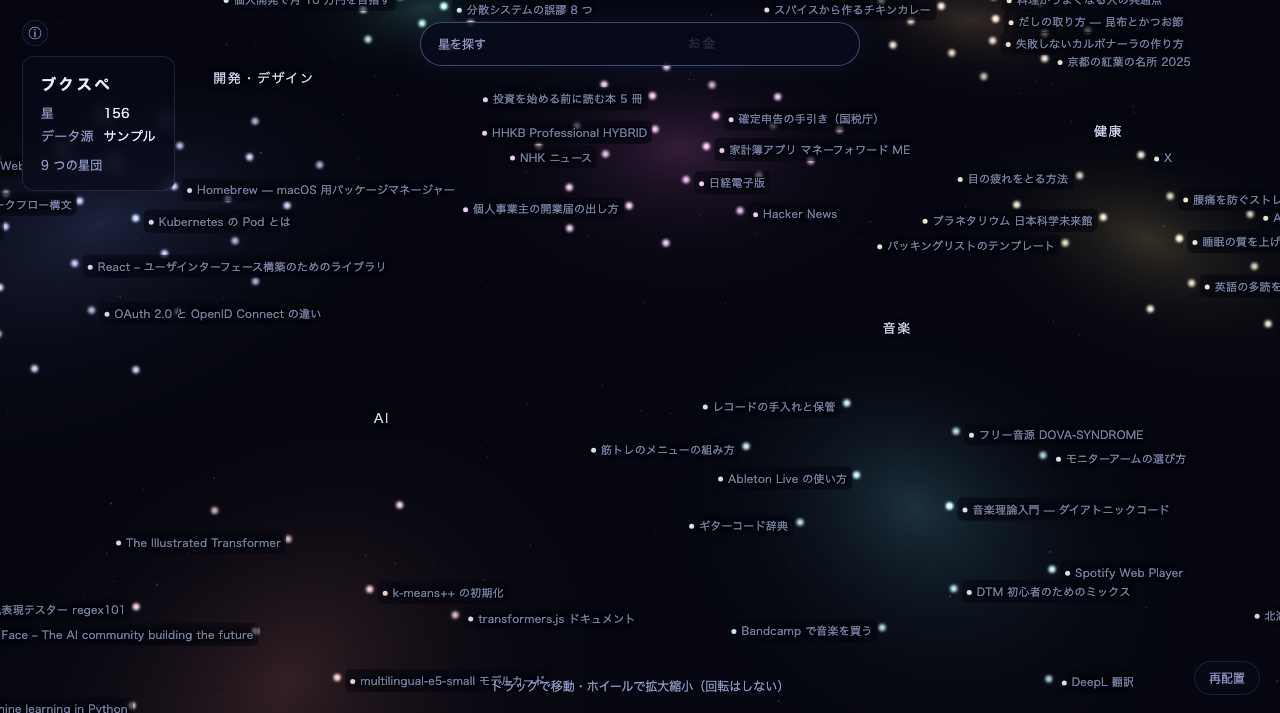
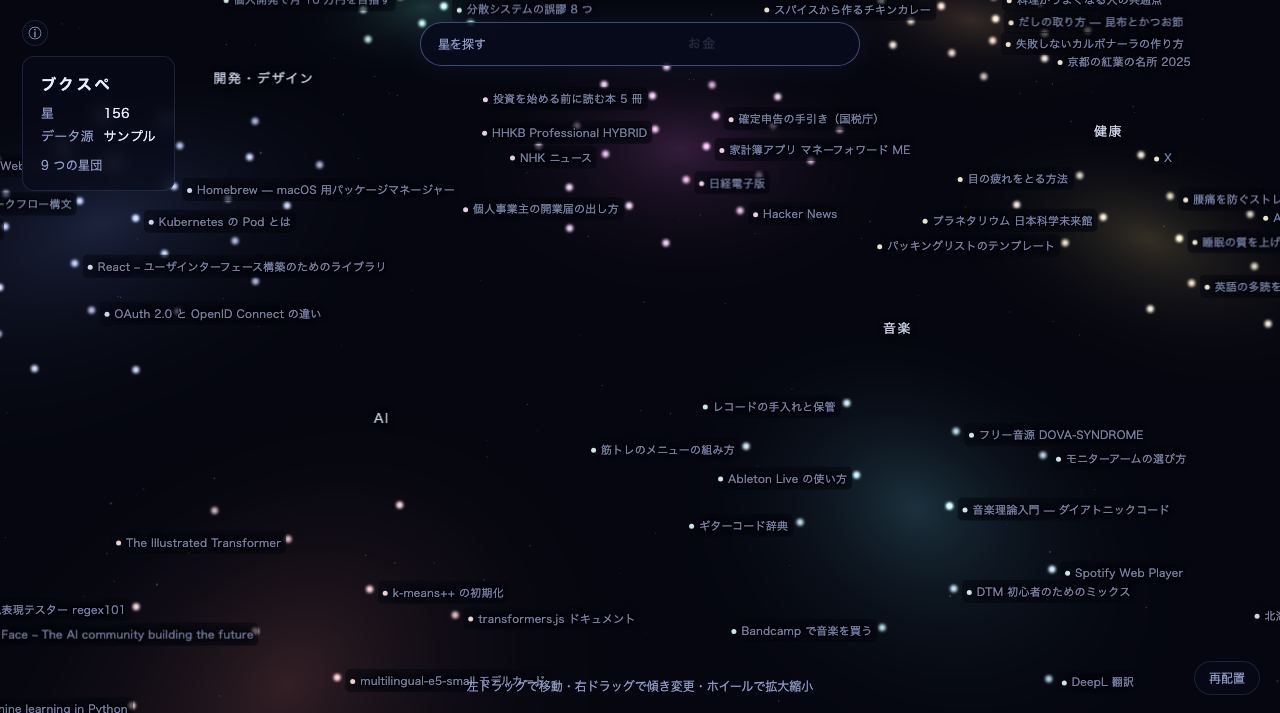
feat(ui): open labels and adjust camera tilt

diff --git a/src/render/scene.ts b/src/render/scene.ts
@@ -8,6 +8,7 @@ import { StarField, clusterColor, createBackdrop, type RenderStar } from "./star
 
 /** 静止時のカメラの傾き（真上から 40 度。SPEC 7 章） */
 const TILT = THREE.MathUtils.degToRad(40);
+const MAX_TILT = THREE.MathUtils.degToRad(65);
 /** 傾き⇄真上の切り替えにかける時間（SPEC 7 章） */
 const TURN_SECONDS = 0.6;
 
@@ -54,6 +55,11 @@ export class SpaceView {
   private screenCircles: ScreenCircle[] = [];
   private tilt = TILT;
   private tiltTarget = TILT;
+  private tiltSpeed = TILT / TURN_SECONDS;
+  private preferredTilt = TILT;
+  private tiltPointer: number | null = null;
+  private tiltPointerY = 0;
+  private tiltCapture: HTMLElement | null = null;
   private searchIds: string[] = [];
   private searchCenter = { x: 0, y: 0 };
   private searchUnit = 1;
@@ -83,6 +89,7 @@ export class SpaceView {
 
   /** 描画できたコマ数。計算中も画面が動いていることの確認に使う。 */
   frames = 0;
+  onStarLabelClick: ((id: string) => void) | null = null;
 
   constructor(private readonly canvas: HTMLCanvasElement, labelContainer: HTMLElement) {
     this.renderer = new THREE.WebGLRenderer({ canvas, antialias: true, alpha: false });
@@ -101,16 +108,50 @@ export class SpaceView {
     this.controls.screenSpacePanning = false;
     this.controls.minDistance = 6;
     this.controls.maxDistance = 2000;
+    for (const surface of [canvas, labelContainer]) {
+      surface.addEventListener("pointerdown", this.onTiltStart, true);
+      surface.addEventListener("pointermove", this.onTiltMove, true);
+      surface.addEventListener("pointerup", this.onTiltEnd, true);
+      surface.addEventListener("pointercancel", this.onTiltEnd, true);
+      surface.addEventListener("contextmenu", (event) => event.preventDefault());
+    }
 
     this.backdrop = createBackdrop();
     this.scene.add(this.backdrop);
     this.scene.add(this.nebulae.object);
     this.scene.add(this.field.object);
+    const glow = new THREE.Mesh(
+      new THREE.PlaneGeometry(2.5, 2.5).rotateX(-Math.PI / 2),
+      new THREE.ShaderMaterial({
+        transparent: true, depthWrite: false, depthTest: false,
+        blending: THREE.AdditiveBlending,
+        vertexShader: `varying vec2 vUv;
+          void main() { vUv = uv; gl_Position = projectionMatrix * modelViewMatrix * vec4(position, 1.0); }`,
+        fragmentShader: `varying vec2 vUv;
+          void main() {
+            float r = length((vUv - 0.5) * 2.5);
+            float ring = exp(-pow((r - 0.42) / 0.09, 2.0));
+            float halo = exp(-pow((r - 0.55) / 0.31, 2.0));
+            gl_FragColor = vec4(0.48, 0.65, 1.0, ring * 0.68 + halo * 0.28);
+          }`,
+      }),
+    );
+    glow.position.y = 0.05;
+    glow.renderOrder = 2;
+    this.blackHole.add(glow);
     const core = new THREE.Mesh(new THREE.CircleGeometry(0.36, 48),
-      new THREE.MeshBasicMaterial({ color: 0x010108, side: THREE.DoubleSide }));
+      new THREE.MeshBasicMaterial({ color: 0x000004, side: THREE.DoubleSide, depthTest: false }));
     core.rotation.x = -Math.PI / 2;
     core.position.y = 0.08;
+    core.renderOrder = 3;
     this.blackHole.add(core);
+    const rim = new THREE.Mesh(new THREE.RingGeometry(0.355, 0.395, 64),
+      new THREE.MeshBasicMaterial({ color: 0xa8c5ff, transparent: true, opacity: 0.95,
+        side: THREE.DoubleSide, depthWrite: false, depthTest: false }));
+    rim.rotation.x = -Math.PI / 2;
+    rim.position.y = 0.09;
+    rim.renderOrder = 4;
+    this.blackHole.add(rim);
     for (const radius of [1, 1.75, 2.55]) {
       const ring = new THREE.Mesh(new THREE.RingGeometry(radius - 0.012, radius + 0.012, 96),
         new THREE.MeshBasicMaterial({ color: 0x7897df, transparent: true, opacity: 0.23, side: THREE.DoubleSide }));
@@ -135,6 +176,7 @@ export class SpaceView {
 
     this.labels = new LabelLayer(labelContainer);
     this.labels.onHover = (key) => this.hoverStar(key);
+    this.labels.onClick = (key) => this.onStarLabelClick?.(key);
 
     addEventListener("resize", this.resize);
     this.resize();
@@ -157,8 +199,39 @@ export class SpaceView {
 
   /** 入力を始めたら真上から、やめたら斜めから（SPEC 7 章）。 */
   setTopDown(topDown: boolean): void {
-    this.tiltTarget = topDown ? 0 : TILT;
+    this.tiltTarget = topDown ? 0 : this.preferredTilt;
+    this.tiltSpeed = Math.abs(this.tiltTarget - this.tilt) / TURN_SECONDS;
   }
+
+  private readonly onTiltStart = (event: PointerEvent): void => {
+    if (event.button !== 2) return;
+    this.tiltPointer = event.pointerId;
+    this.tiltPointerY = event.clientY;
+    this.tiltCapture = event.currentTarget as HTMLElement;
+    this.tiltCapture.setPointerCapture(event.pointerId);
+    event.preventDefault();
+    event.stopImmediatePropagation();
+  };
+
+  private readonly onTiltMove = (event: PointerEvent): void => {
+    if (event.pointerId !== this.tiltPointer) return;
+    const delta = event.clientY - this.tiltPointerY;
+    this.tiltPointerY = event.clientY;
+    this.tilt = THREE.MathUtils.clamp(this.tilt + delta * 0.004, 0, MAX_TILT);
+    this.preferredTilt = this.tiltTarget = this.tilt;
+    this.setDistance(this.camera.position.distanceTo(this.controls.target));
+    event.preventDefault();
+    event.stopImmediatePropagation();
+  };
+
+  private readonly onTiltEnd = (event: PointerEvent): void => {
+    if (event.pointerId !== this.tiltPointer) return;
+    this.tiltPointer = null;
+    if (this.tiltCapture?.hasPointerCapture(event.pointerId)) this.tiltCapture.releasePointerCapture(event.pointerId);
+    this.tiltCapture = null;
+    event.preventDefault();
+    event.stopImmediatePropagation();
+  };
 
   /** 画面中央の地図上の点を中心に、検索結果を軌道へ移す。 */
   setSearch(ids: string[]): void {
@@ -335,7 +408,7 @@ export class SpaceView {
     const dt = Math.min(0.05, this.clock.getDelta());
 
     if (Math.abs(this.tilt - this.tiltTarget) > 1e-4) {
-      const step = (TILT / TURN_SECONDS) * dt;
+      const step = this.tiltSpeed * dt;
       const diff = this.tiltTarget - this.tilt;
       this.tilt += Math.sign(diff) * Math.min(Math.abs(diff), step);
       const t = this.controls.target;

diff --git a/src/ui/labels.ts b/src/ui/labels.ts
@@ -66,10 +66,12 @@ export class LabelLayer {
   private readonly fullText = new Map<string, string>();
   private hovered: string | null = null;
   onHover: ((key: string | null) => void) | null = null;
+  onClick: ((key: string) => void) | null = null;
 
   constructor(private readonly container: HTMLElement) {
     container.addEventListener("mouseover", this.onOver);
     container.addEventListener("mouseout", this.onOut);
+    container.addEventListener("click", this.onLabelClick);
   }
 
   render(items: PlacedLabel[], tier: ZoomTier, circles: ScreenCircle[] = []): number {
@@ -159,12 +161,13 @@ export class LabelLayer {
       el.dataset.searchRank = item.searchRank == null ? "" : String(item.searchRank);
       el.dataset.cluster = item.cluster == null ? "" : String(item.cluster);
       el.dataset.side = item.side ?? "";
+      el.dataset.kind = item.kind;
       el.style.textAlign = item.side === "left" ? "right" : "left";
       el.style.width = item.searchRank == null ? "" : `${(box.r - box.l).toFixed(1)}px`;
       el.style.boxSizing = item.searchRank == null ? "" : "border-box";
       el.style.setProperty("--cluster-color", item.color ?? "transparent");
       // 省略したものだけ、マウスを乗せたら全文を出す
-      el.style.pointerEvents = item.searchRank != null || text !== this.fullText.get(item.key) ? "auto" : "none";
+      el.style.pointerEvents = item.kind === "star" ? "auto" : "none";
       el.style.transform = `translate3d(${box.l.toFixed(1)}px, ${box.t.toFixed(1)}px, 0)`;
       if (fresh) requestAnimationFrame(() => { if (this.active.some(({ item: active }) => active.key === item.key)) el.style.opacity = "1"; });
       else el.style.opacity = "1";
@@ -185,6 +188,12 @@ export class LabelLayer {
     (e.target as HTMLElement).classList.remove("is-hovered");
     this.hovered = null;
     this.onHover?.(null);
+  };
+
+  private readonly onLabelClick = (e: MouseEvent) => {
+    const el = e.target as HTMLElement;
+    if (el?.dataset?.kind !== "star" || !el.dataset.key) return;
+    this.onClick?.(el.dataset.key);
   };
 
   private textWidth(text: string, size: number): number {

diff --git a/index.html b/index.html
@@ -126,6 +126,7 @@
         font-size: 11px;
         letter-spacing: 0.02em;
         color: rgba(178, 195, 245, 0.66);
+        cursor: pointer;
       }
       .label-star::before {
         content: "";
@@ -240,7 +241,7 @@
     <div id="hud"></div>
     <button id="relayout" title="星団から並べ直す">再配置</button>
     <div id="loading">星を数えている…</div>
-    <div id="hint">ドラッグで移動・ホイールで拡大縮小（回転はしない）</div>
+    <div id="hint">左ドラッグで移動・右ドラッグで傾き変更・ホイールで拡大縮小</div>
     <script type="module" src="/src/main.ts"></script>
   </body>
 </html>

diff --git a/src/main.ts b/src/main.ts
@@ -52,6 +52,7 @@ async function main(): Promise<void> {
 
   setupHudControls();
   view = new SpaceView(canvas, labels);
+  view.onStarLabelClick = showCard;
   view.start();
 
   renderHudMessage("ブックマークを読み込んでいる…");

diff --git a/docs/HANDOFF.md b/docs/HANDOFF.md
@@ -82,6 +82,15 @@
   通常画面 0.10ms、検索中 0.40ms。
   Chrome の `LayoutCount` とラベル再判定回数はドラッグ中どちらも増えなかった。
 
+### クリック操作・ブラックホール・視点の調整
+
+- 表示中の星タイトルは通常画面・検索中ともクリックでき、星本体と同じカードを開く。
+  星団名はブックマークを1件指さないためクリック対象にしない。
+- ブラックホールの暗い中心の周囲に明るい細い輪と淡い光を置き、藍色の背景から識別しやすくした。
+- 左ドラッグは従来どおり移動、右ドラッグの上下は視線の傾きだけを変える。
+  真上から 0〜65 度に制限し、地図の方角は固定する。検索で真上へ移ったあとも、
+  検索を終えると右ドラッグで決めた傾きに約 0.6 秒で戻る。
+
 ---
 
 ## 2. 決めたことと、その理由
@@ -140,7 +149,8 @@
 - 星は `Points` 1 つ（2000 件で 60 コマ/秒を確認）。画面上の大きさは 2〜12px に制限。
   螺旋の内側ほど少し大きく明るい。星団ごとに色み（意味は持たせない）。
 - 星団の下に星雲（放射状グラデーションの板、`InstancedMesh`）を敷く。
-- カメラは移動と拡大縮小のみ（`MapControls` の `enableRotate = false`）。静止時 40 度、
+- カメラは左ドラッグで移動、ホイールで拡大縮小、右ドラッグで傾きのみ変更する。
+  `MapControls` の自由回転は無効のまま。初期傾き 40 度、右ドラッグの範囲は 0〜65 度。
   `setTopDown(true)` で約 0.6 秒で真上。初期位置は外接矩形の四隅を実際に投影して、
   地図全体が画面の約 80% に収まるまで詰める。
 - **タイトルは星団中心より右側の星なら右横、左側なら左横に 8px 離して置く。**
@@ -242,6 +252,8 @@ npm run icons      # アイコン PNG を作り直す
 32. 通常画面と検索中のドラッグで、描画コマ数とラベル位置更新回数が一致する
 33. ドラッグ中のラベル位置更新は毎回 2ms 以内
 34. ドラッグ中、Chrome の `LayoutCount` とラベル再判定回数が増えない
+35. 通常画面と検索中の星タイトルをクリックすると、その星のカードが開く
+36. 右ドラッグで傾きが変わり、真上への切り替え後にその傾きへ戻る
 
 そのうえで `docs/screens/` に initial・far・mid・near のスクリーンショットと
 `clusters.json`（星団の名前・件数・フォルダ内訳）を書き出す。

diff --git a/docs/PLAN.md b/docs/PLAN.md
@@ -15,13 +15,13 @@ M5・M6 は残り時間で削れる。各段階は「画面で確認できるこ
 - `chrome.action.onClicked` → `chrome.tabs.create({ url: chrome.runtime.getURL("index.html") })`。
 - ブックマーク取得の抽象化：`BookmarkSource`（Chrome 版 / サンプル JSON 版）。
 - サンプルブックマーク 150 件の JSON と、それを読み込む開発モード。
-- three.js のシーン、星の点描画、移動と拡大縮小のみのカメラ操作、HUD（件数・データ源）。
+- three.js のシーン、星の点描画、移動と拡大縮小のカメラ操作、HUD（件数・データ源）。
 - 配置は**仮**（上位フォルダごとに螺旋）。意味配置は M2。
 
 完了条件（画面で確認）
 - [ ] `npm run dev` で `localhost:5173` を開くと、150 個の星が斜めから見た円盤として表示される。
 - [ ] HUD に「星 150 / データ源：サンプル」が出る。
-- [ ] ドラッグで移動、ホイールで拡大縮小ができる。**回転はできない。**
+- [ ] 左ドラッグで移動、ホイールで拡大縮小ができる。**地図の方角は回転できない。**
 - [ ] `npm run build` した `dist/` をデベロッパーモードで読み込め、警告が出ない。
 - [ ] ツールバーのアイコンを押すと専用タブが開き、**自分の実際のブックマーク**が星として出る。
 - [ ] HUD が「データ源：Chrome」になり、`?sample=1` を付けるとサンプルに切り替わる。
@@ -97,7 +97,7 @@ npm run build && npm run check:ext
 - 星団中心：平均ベクトルの PCA 2 次元 → 拡大 → 半径 `r = 間隔 × sqrt(件数) × 1.1` の円として反発で押し広げ。
 - 星団内：フェルマー螺旋（`r = s × sqrt(i + 0.5)`、`θ = i × 137.508°`、平均ベクトルとの類似度順）。
 - 星団名：最多フォルダ名（30% 以上）→ 最多ドメイン →「無名の星団 N」。
-- カメラ：静止時 40 度傾き、入力開始で約 0.6 秒で真上へ。
+- カメラ：初期 40 度傾き、入力開始で約 0.6 秒で真上へ。右ドラッグで傾きのみ変更できる。
 - 拡大率による表示：遠＝星団名のみ、中＝代表 3〜5 個、近＝全部。HTML 重ね表示、同時 60 件上限。
 - 配置と星団割り当てを IndexedDB に保存し、開くたびに再計算しない。「再配置」ボタンのみ全体再計算。
 

diff --git a/docs/SPEC.md b/docs/SPEC.md
@@ -80,7 +80,8 @@
 ### 方針
 - 星はすべて一枚の平面（z≈0）に置く。奥行きに意味を持たせない。
 - 何もしていないときはカメラを約40度傾け、銀河の円盤のように見せる。入力を始めたら約0.6秒でカメラを真上に回し、読みやすい地図にする。
-- 操作は移動と拡大縮小のみ。自由な回転は許可しない（場所の記憶を保つため）。
+- 左ドラッグで移動、ホイールで拡大縮小、右ドラッグの上下で傾きのみ調整する。
+  地図の方角は回転させない（場所の記憶を保つため）。傾きは真上から 0〜65 度。
 
 ### 手順（星団 → 星の二段構え）
 1. **星団に分ける**：コサイン距離のk-means（k-means++、乱数の種は固定）。`k = clamp(round(sqrt(N/2)), 3, 20)`。Nが12未満なら1つの星団にする。
@@ -114,6 +115,7 @@
 
 ### 引き寄せの見せ方
 - ブラックホールは画面中央（平面上で画面中心に当たる点）に出す。
+- 暗い中心の輪郭と淡い光で背景から識別できるようにする。
 - 引き寄せた星は関連度順に同心円の軌道へ並べる。タイトルは外側へ放射状に表示する。
 - 引き寄せた星から元の位置へ、細い光の線を残す（どの星団から来たかが分かる）。
 - 関係のない星は暗くするだけで動かさない（不透明度25%程度）。
@@ -121,7 +123,7 @@
 
 ### キーボードと選択
 - Enter：選択中の星（初期値は内側の円の1位）を開く。上下キー：候補を順に選ぶ。Esc：検索を消す。
-- 星をクリック（タップ）すると、タイトル・URL・フォルダと「開く」ボタンのカードを表示。PCではダブルクリックでも開く。
+- 星または表示中の星のタイトルをクリック（タップ）すると、タイトル・URL・フォルダと「開く」ボタンのカードを表示。PCでは星をダブルクリックしても開く。
 - 入力欄の下に検索候補を3つ表示（大きな星団の名前など）。
 
 ## 9. 星座（中心機能）
